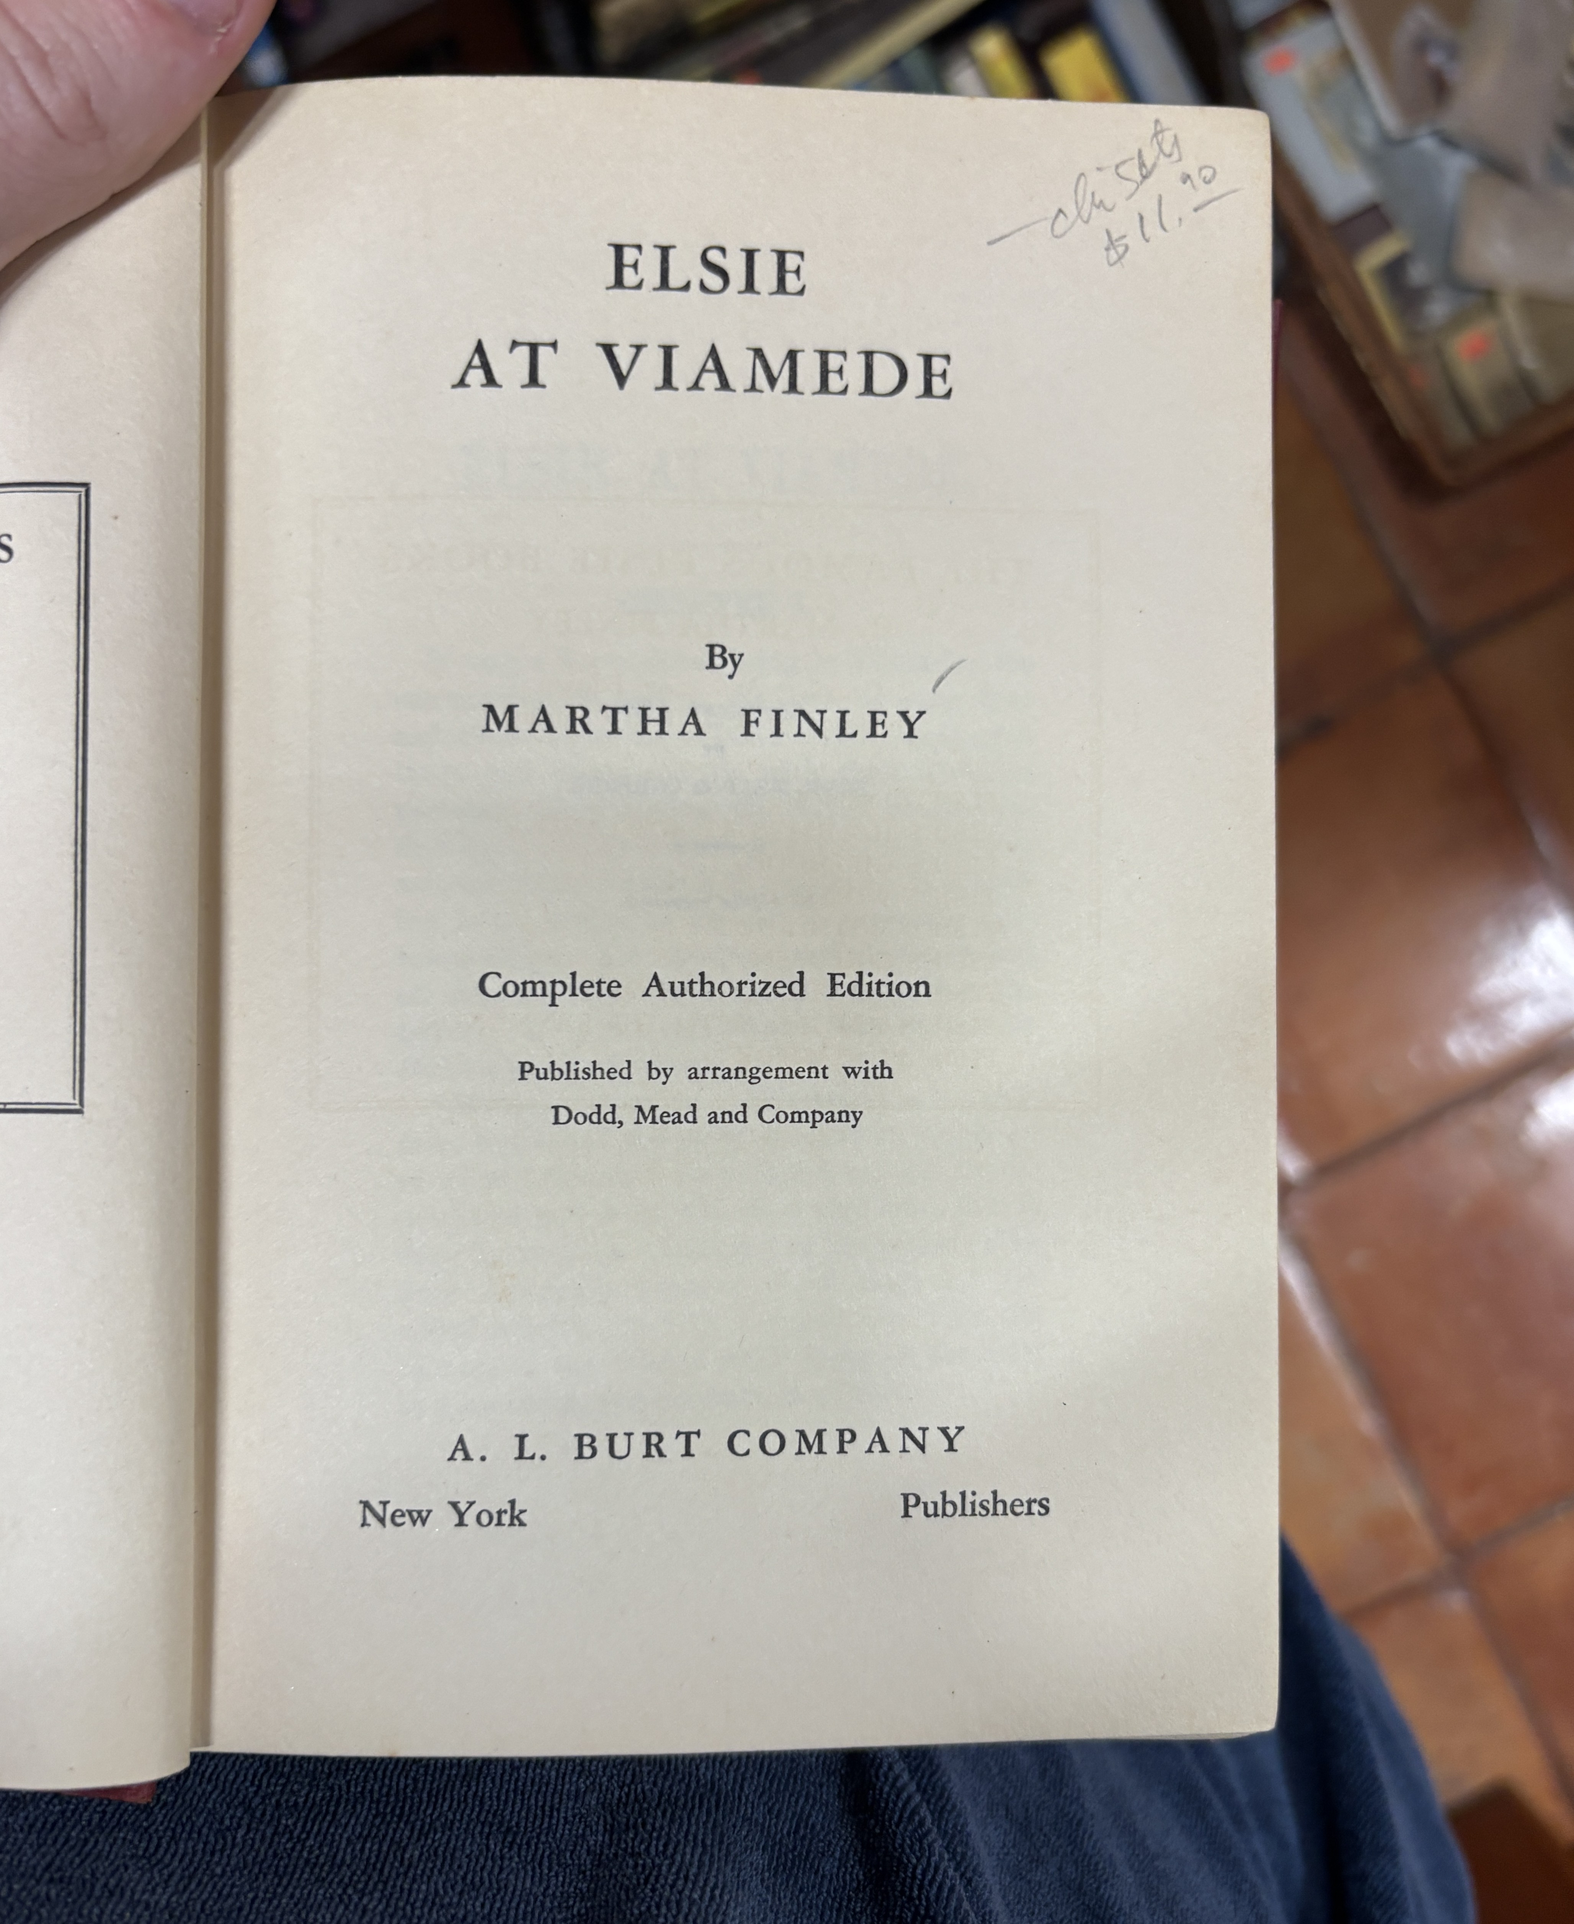
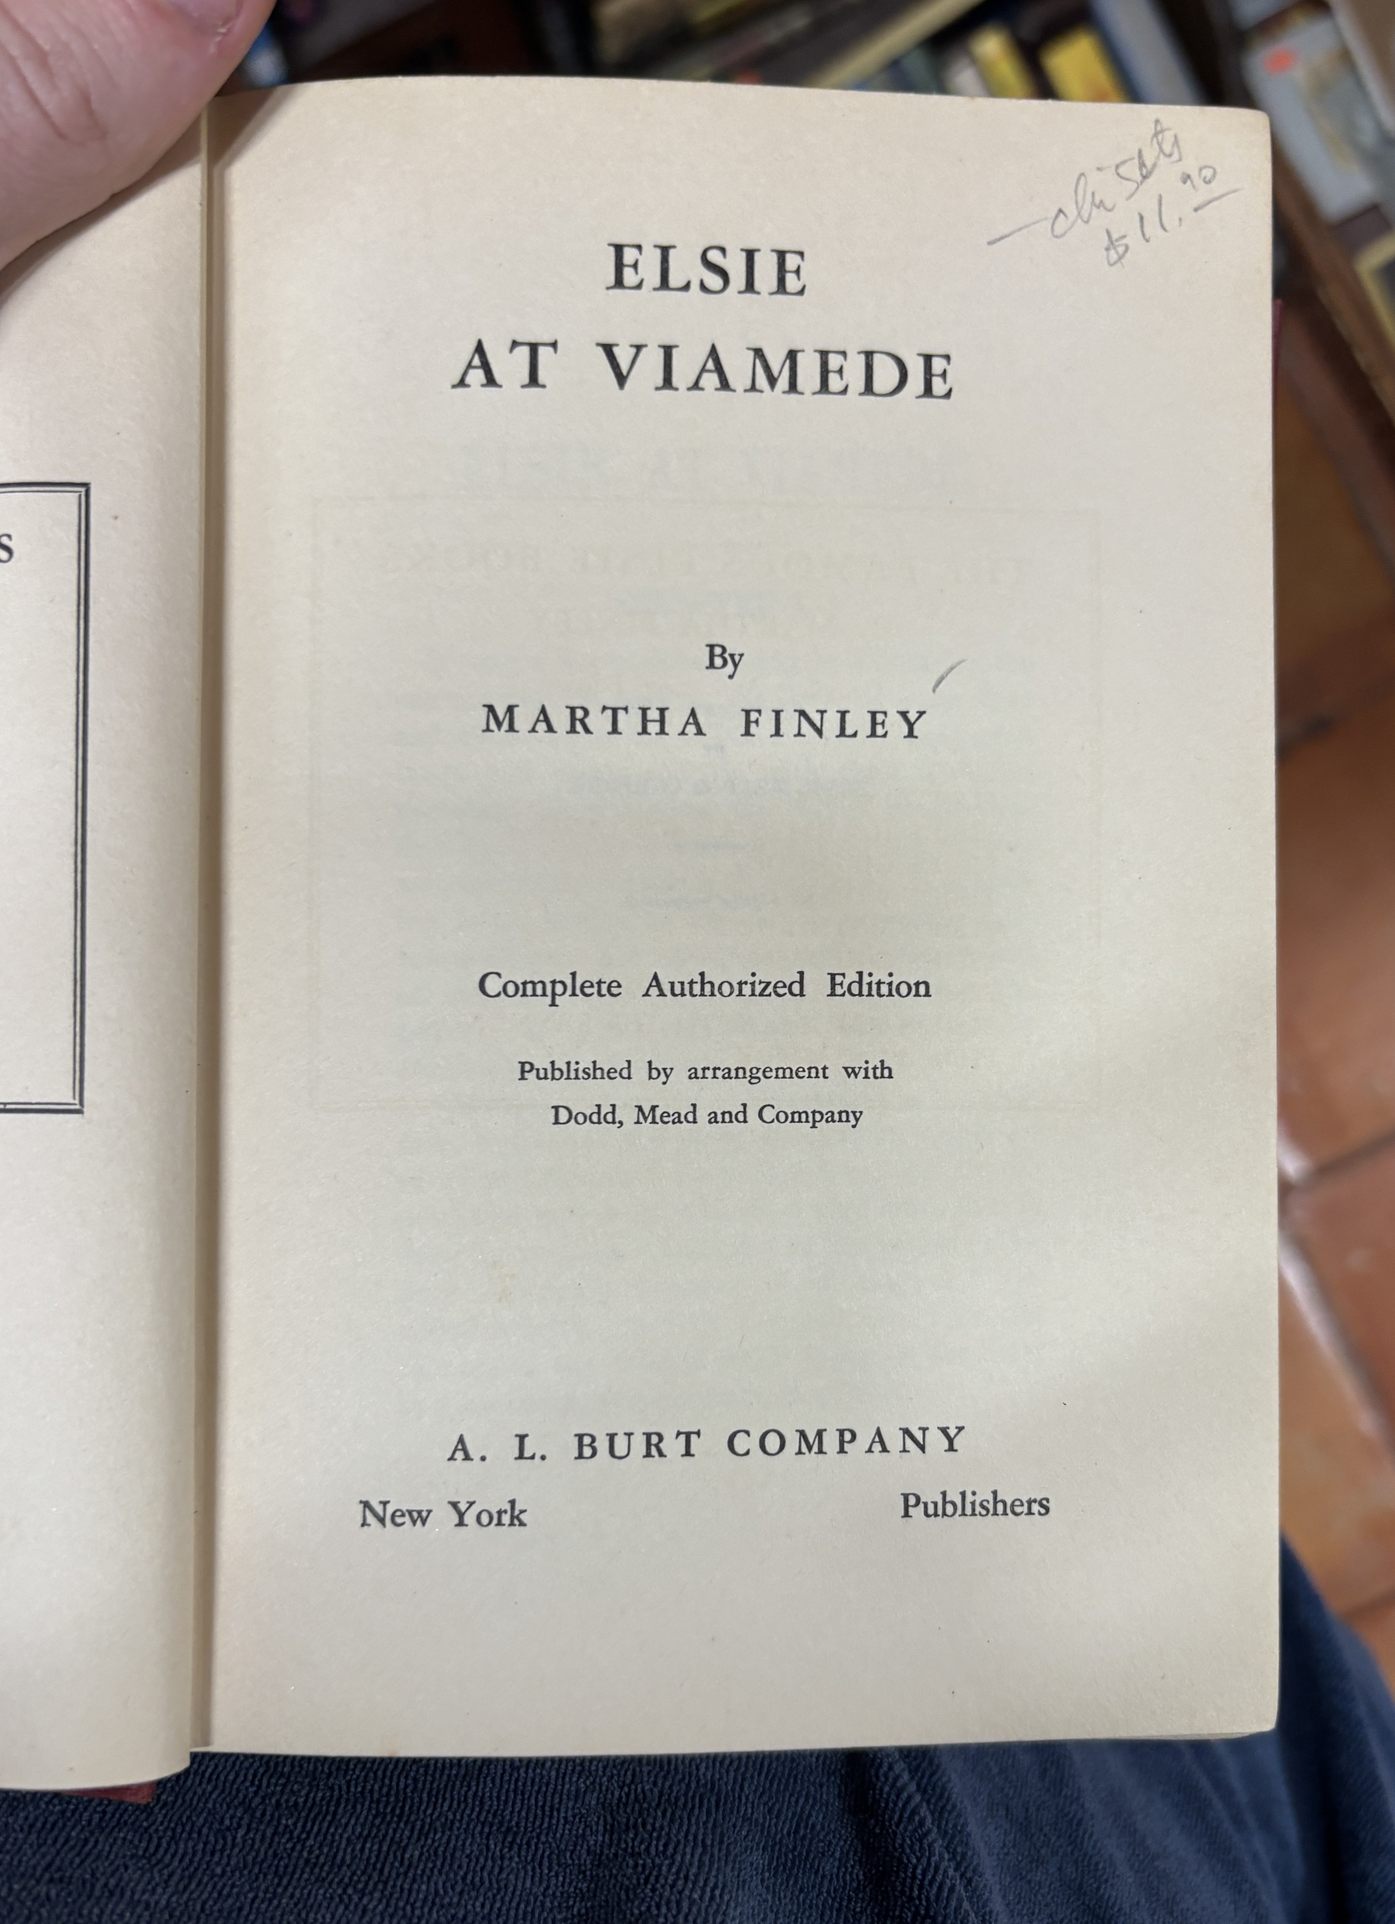
Add run OCR toggle and improve image preprocessing
Introduces a 'run OCR' checkbox to the UI and API, allowing users to skip OCR if desired. Enhances image preprocessing for book covers by adding brightness adjustment and tuning contrast, CLAHE, and sharpening parameters. Updates image encoding logic for vision models to use processed inputs and adjusts downscaling based on image type. Adds new images and updates existing ones in the books directory.

diff --git a/pipeline_demo/i2j_ui/static/script.js b/pipeline_demo/i2j_ui/static/script.js
@@ -39,6 +39,7 @@ const queueList = document.getElementById('queue-list');
 const modelSel = document.getElementById('model');
 const backendSel = document.getElementById('backend');
 const ocrSel = document.getElementById('ocr');
+const runOcrChk = document.getElementById('run-ocr');
 const preprocChk = document.getElementById('preproc');
 const examplesSel = document.getElementById('examples');
 const btnRunExample = document.getElementById('run-example');
@@ -487,6 +488,7 @@ async function processSingle(blob, filename = 'capture.jpg') {
   fd.append('image', blob, filename);
   fd.append('model', modelSel.value || 'gemma3:4b');
   fd.append('ocr_engine', ocrSel.value || 'easyocr');
+  fd.append('run_ocr', runOcrChk && runOcrChk.checked ? 'true' : 'false');
   fd.append('use_preprocessing', preprocChk.checked ? 'true' : 'false');
   fd.append('edge_crop', String(Number(edgeCropRange.value || 0)));
   fd.append('crop_ocr', autoCropChk.checked ? 'true' : 'false');
@@ -550,6 +552,7 @@ async function processBatch(blobs) {
   }
   fd.append('model', modelSel.value || 'gemma3:4b');
   fd.append('ocr_engine', ocrSel.value || 'easyocr');
+  fd.append('run_ocr', runOcrChk && runOcrChk.checked ? 'true' : 'false');
   fd.append('use_preprocessing', preprocChk.checked ? 'true' : 'false');
   fd.append('edge_crop', String(Number(edgeCropRange.value || 0)));
   fd.append('crop_ocr', autoCropChk.checked ? 'true' : 'false');
@@ -670,7 +673,7 @@ btnRunExample.addEventListener('click', async () => {
     if (count > 0) initTraceTable(count, []);
   } catch {}
 
-  const resp = await fetch('/api/process_example', { method: 'POST', headers: { 'Content-Type': 'application/json' }, body: JSON.stringify({ book_id: id, model: modelSel.value || 'gemma3:4b', ocr_engine: ocrSel.value || 'easyocr', use_preprocessing: preprocChk.checked, edge_crop: Number(edgeCropRange.value || 0), crop_ocr: autoCropChk.checked, llm_backend: backendSel.value || 'ollama' }) });
+  const resp = await fetch('/api/process_example', { method: 'POST', headers: { 'Content-Type': 'application/json' }, body: JSON.stringify({ book_id: id, model: modelSel.value || 'gemma3:4b', ocr_engine: ocrSel.value || 'easyocr', run_ocr: runOcrChk && runOcrChk.checked, use_preprocessing: preprocChk.checked, edge_crop: Number(edgeCropRange.value || 0), crop_ocr: autoCropChk.checked, llm_backend: backendSel.value || 'ollama' }) });
   const data = await resp.json();
   if (!resp.ok) {
     statusEl.textContent = 'Error';

diff --git a/pipeline_demo/i2j_ui/static/index.html b/pipeline_demo/i2j_ui/static/index.html
@@ -37,6 +37,7 @@
                             <option value="easyocr" selected>easyocr</option>
                             <option value="tesseract">tesseract</option>
                         </select>
+                        <label><input type="checkbox" id="run-ocr" checked> run OCR</label>
                         <label><input type="checkbox" id="preproc" checked> preprocessing</label>
                     </div>
                     <div class="row">

diff --git a/pipeline_demo/extractor/enhanced_extractor.py b/pipeline_demo/extractor/enhanced_extractor.py
@@ -314,7 +314,7 @@ class EnhancedBookMetadataExtractor:
             with open(image_path, "rb") as f:
                 return base64.b64encode(f.read()).decode("utf-8")
     
-    def extract_text_with_ocr(self, image_path: str, trace_image: Optional[Dict[str, Any]] = None, trace_global: Optional[Dict[str, Any]] = None, *, step_log: Optional[List[Dict[str, Any]]] = None) -> str:
+    def extract_text_with_ocr(self, image_path: str, trace_image: Optional[Dict[str, Any]] = None, trace_global: Optional[Dict[str, Any]] = None, *, step_log: Optional[List[Dict[str, Any]]] = None, image_index: Optional[int] = None) -> str:
         """Extract text from an image using OCR and return text only."""
         print(f"    🔍 Starting OCR processing for: {os.path.basename(image_path)}")
         
@@ -392,14 +392,15 @@ class EnhancedBookMetadataExtractor:
         try:
             try:
                 img = Image.open(crop_image_path)
-                # Target a reasonable max dimension for OCR speed
-                max_dim = 1600
+                # Use a higher limit for non-cover pages to preserve text fidelity
+                # Cover (index 0) can be downscaled more aggressively; others keep larger size
+                max_dim = 1600 if (image_index is None or image_index == 0) else 3200
                 if max(img.size) > max_dim:
                     img = img.convert("RGB")
                     img.thumbnail((max_dim, max_dim))
                     from io import BytesIO
                     buf = BytesIO()
-                    img.save(buf, format="JPEG", quality=90)
+                    img.save(buf, format="JPEG", quality=(90 if (image_index is None or image_index == 0) else 95))
                     data = buf.getvalue()
                     temp_dir = self._get_temp_dir()
                     base_name = os.path.splitext(os.path.basename(crop_image_path))[0]
@@ -407,7 +408,7 @@ class EnhancedBookMetadataExtractor:
                     with open(ocr_input_path, "wb") as f:
                         f.write(data)
                     temp_files_to_cleanup.append(ocr_input_path)
-                    print(f"    🗜  Downscaled image for OCR: {os.path.basename(ocr_input_path)}")
+                    print(f"    🗜  Downscaled image for OCR ({max_dim}px): {os.path.basename(ocr_input_path)}")
             except Exception as _:
                 ocr_input_path = crop_image_path
         except Exception:
@@ -587,7 +588,7 @@ class EnhancedBookMetadataExtractor:
                     self._emit_trace(trace)
                 trace_img_dict = trace["images"][idx] if capture_trace else None
                 step_log = trace.get("steps") if capture_trace else None
-                ocr_text = self.extract_text_with_ocr(image_paths[idx], trace_image=trace_img_dict, trace_global=trace if capture_trace else None, step_log=step_log)
+                ocr_text = self.extract_text_with_ocr(image_paths[idx], trace_image=trace_img_dict, trace_global=trace if capture_trace else None, step_log=step_log, image_index=idx)
                 if ocr_text.strip():
                     text_len = len(ocr_text)
                     if text_len > self.max_ocr_chars_per_image:
@@ -622,14 +623,62 @@ class EnhancedBookMetadataExtractor:
             trace["steps"].append({"step": "build_prompt", "info": {"chars": len(enhanced_prompt)}})
             self._emit_trace(trace)
         # (trace already updated above)
-        # Encode all images for Ollama
-        print(f"\n📸 Encoding {len(image_paths)} images for vision model...")
+        # Build best-available processed inputs for VLM (preprocess → edge-crop → auto-crop)
+        model_input_paths: List[str] = []
+        model_temp_files_to_cleanup: List[str] = []
+        for idx, p in enumerate(image_paths):
+            current_path = p
+            try:
+                # Preprocessing (if available and enabled)
+                if self.use_preprocessing and PREPROCESSING_AVAILABLE:
+                    try:
+                        temp_dir = self._get_temp_dir()
+                        base_name = os.path.splitext(os.path.basename(p))[0]
+                        pre_path = os.path.join(temp_dir, f"{base_name}_pre_model.png")
+                        _, pre_path, _steps = preprocess_for_book_cover(p, pre_path)
+                        model_temp_files_to_cleanup.append(pre_path)
+                        current_path = pre_path
+                    except Exception:
+                        current_path = p
+                # Edge crop (simple centered crop)
+                if self.edge_crop_percent > 0.0:
+                    try:
+                        central = self._central_edge_crop(current_path, self.edge_crop_percent)
+                        if central and os.path.exists(central):
+                            model_temp_files_to_cleanup.append(central)
+                            current_path = central
+                    except Exception:
+                        pass
+                # Auto text crop (heuristic)
+                if self.crop_for_ocr:
+                    try:
+                        cropped = self._auto_crop_text_region(current_path, self.crop_margin)
+                        if cropped and os.path.exists(cropped):
+                            model_temp_files_to_cleanup.append(cropped)
+                            current_path = cropped
+                    except Exception:
+                        pass
+            finally:
+                model_input_paths.append(current_path)
+
+        # Encode all images for Ollama using processed inputs
+        print(f"\n📸 Encoding {len(model_input_paths)} images for vision model...")
         images = []
-        for i, img_path in enumerate(image_paths, 1):
-            print(f"   📷 Encoding image {i}: {os.path.basename(img_path)}")
-            encoded = self._encode_image_for_model(img_path)
+        for i, (orig_path, model_path) in enumerate(zip(image_paths, model_input_paths), 1):
+            print(f"   📷 Encoding image {i}: {os.path.basename(orig_path)} → {os.path.basename(model_path)}")
+            idx0 = i - 1
+            max_dim_model = 1600 if idx0 == 0 else 2400
+            jpeg_q = 85 if idx0 == 0 else 90
+            encoded = self._encode_image_for_model(model_path, max_dim=max_dim_model, jpeg_quality=jpeg_q)
             images.append(encoded)
             print(f"      ✓ Encoded ({len(encoded)} characters)")
+        # Cleanup temporary processed inputs
+        try:
+            for tmp in model_temp_files_to_cleanup:
+                if tmp and os.path.exists(tmp):
+                    os.remove(tmp)
+        except Exception:
+            pass
         if capture_trace:
             trace["steps"].append({"step": "encode_images", "info": {"count": len(images)}})
             self._emit_trace(trace)

diff --git a/pipeline_demo/i2j_ui/app/main.py b/pipeline_demo/i2j_ui/app/main.py
@@ -411,7 +411,7 @@ async def job_result(id: str):
             return JSONResponse(status_code=202, content={"status": status})
         return {"id": id, "status": status, "metadata": job.get("metadata"), "files": job.get("files", [])}
 
-def _run_extractor_job(job_id: str, image_paths: List[str], *, model: str, ocr_engine: str, use_preprocessing: bool, edge_crop: float, crop_ocr: bool, llm_backend: str = "ollama") -> None:
+def _run_extractor_job(job_id: str, image_paths: List[str], *, model: str, ocr_engine: str, use_preprocessing: bool, edge_crop: float, crop_ocr: bool, llm_backend: str = "ollama", run_ocr: bool = True) -> None:
 	_JOB_SEM.acquire()
 	try:
 		with _JOBS_LOCK:
@@ -428,7 +428,7 @@ def _run_extractor_job(job_id: str, image_paths: List[str], *, model: str, ocr_e
 		sys.stderr = _JobLogTee(_orig_err, job_id)
 		try:
 			extractor = _build_extractor(model=model, ocr_engine=ocr_engine, use_preprocessing=use_preprocessing, edge_crop=edge_crop, auto_crop=crop_ocr, llm_backend=llm_backend)
-			ocr_indices = _compute_default_ocr_indices(len(image_paths))
+			ocr_indices = _compute_default_ocr_indices(len(image_paths)) if bool(run_ocr) else []
 			metadata = extractor.extract_metadata_from_images(image_paths, ocr_image_indices=ocr_indices, capture_trace=True, trace_sink=trace_sink)
 		finally:
 			sys.stdout = _orig_out
@@ -614,6 +614,7 @@ async def process_image(
 	image: UploadFile = File(...),
 	model: str = Form("gemma3:4b"),
 	ocr_engine: str = Form("easyocr"),
+	run_ocr: bool = Form(True),
 	use_preprocessing: bool = Form(True),
 	edge_crop: float = Form(0.0),
 	crop_ocr: bool = Form(True),
@@ -645,7 +646,7 @@ async def process_image(
 		return JSONResponse(status_code=400, content={"error": bad})
 	# Start background job and return immediately
 	t = threading.Thread(target=_run_extractor_job, args=(item_id, [saved_path]), kwargs={
-		'model': model, 'ocr_engine': ocr_engine, 'use_preprocessing': use_preprocessing, 'edge_crop': float(edge_crop), 'crop_ocr': bool(crop_ocr), 'llm_backend': str(llm_backend or 'ollama')
+		'model': model, 'ocr_engine': ocr_engine, 'use_preprocessing': use_preprocessing, 'edge_crop': float(edge_crop), 'crop_ocr': bool(crop_ocr), 'llm_backend': str(llm_backend or 'ollama'), 'run_ocr': bool(run_ocr)
 	}, daemon=True)
 	t.start()
 	with _JOBS_LOCK:
@@ -660,6 +661,7 @@ async def process_images(
 	images: List[UploadFile] = File(...),
 	model: str = Form("gemma3:4b"),
 	ocr_engine: str = Form("easyocr"),
+	run_ocr: bool = Form(True),
 	use_preprocessing: bool = Form(True),
 	edge_crop: float = Form(0.0),
 	crop_ocr: bool = Form(True),
@@ -695,7 +697,7 @@ async def process_images(
 		return JSONResponse(status_code=400, content={"error": bad})
 	# Start background job and return immediately
 	t = threading.Thread(target=_run_extractor_job, args=(item_id, saved_paths), kwargs={
-		'model': model, 'ocr_engine': ocr_engine, 'use_preprocessing': use_preprocessing, 'edge_crop': float(edge_crop), 'crop_ocr': bool(crop_ocr), 'llm_backend': str(llm_backend or 'ollama')
+		'model': model, 'ocr_engine': ocr_engine, 'use_preprocessing': use_preprocessing, 'edge_crop': float(edge_crop), 'crop_ocr': bool(crop_ocr), 'llm_backend': str(llm_backend or 'ollama'), 'run_ocr': bool(run_ocr)
 	}, daemon=True)
 	t.start()
 	with _JOBS_LOCK:
@@ -731,6 +733,7 @@ class ExamplePayload(BaseModel):
 	book_id: str
 	model: Optional[str] = "gemma3:4b"
 	ocr_engine: Optional[str] = "easyocr"
+	run_ocr: Optional[bool] = True
 	use_preprocessing: Optional[bool] = True
 	edge_crop: Optional[float] = 0.0
 	crop_ocr: Optional[bool] = True
@@ -775,7 +778,7 @@ async def process_example(payload: ExamplePayload):
 		raise HTTPException(status_code=400, detail=bad)
 	
 	t = threading.Thread(target=_run_extractor_job, args=(job_id, image_paths), kwargs={
-		'model': payload.model or 'gemma3:4b', 'ocr_engine': payload.ocr_engine or 'easyocr', 'use_preprocessing': bool(payload.use_preprocessing), 'edge_crop': float(payload.edge_crop or 0.0), 'crop_ocr': bool(payload.crop_ocr or False), 'llm_backend': str(payload.llm_backend or 'ollama')
+		'model': payload.model or 'gemma3:4b', 'ocr_engine': payload.ocr_engine or 'easyocr', 'use_preprocessing': bool(payload.use_preprocessing), 'edge_crop': float(payload.edge_crop or 0.0), 'crop_ocr': bool(payload.crop_ocr or False), 'llm_backend': str(payload.llm_backend or 'ollama'), 'run_ocr': bool(payload.run_ocr if payload.run_ocr is not None else True)
 	}, daemon=True)
 	t.start()
 	with _JOBS_LOCK:
@@ -989,5 +992,3 @@ async def reject(payload: RejectPayload):
 	with open(log_path, "w", encoding="utf-8") as f:
 		f.write(payload.reason or "rejected")
 	return {"status": "rejected", "path": log_path}
-
-

diff --git a/pipeline_demo/ocr_testing/preprocessing/image_preprocessor.py b/pipeline_demo/ocr_testing/preprocessing/image_preprocessor.py
@@ -82,6 +82,22 @@ class ImagePreprocessor:
             self.preprocessed_image = np.array(enhanced_img)
         self.steps_applied.append(f"increase_contrast(factor={factor})")
         return self
+
+    def increase_brightness(self, factor=1.2):
+        if self.preprocessed_image is None:
+            raise ValueError("No image loaded")
+        if len(self.preprocessed_image.shape) == 3:
+            pil_img = Image.fromarray(cv2.cvtColor(self.preprocessed_image, cv2.COLOR_BGR2RGB))
+        else:
+            pil_img = Image.fromarray(self.preprocessed_image)
+        enhancer = ImageEnhance.Brightness(pil_img)
+        bright_img = enhancer.enhance(factor)
+        if len(self.preprocessed_image.shape) == 3:
+            self.preprocessed_image = cv2.cvtColor(np.array(bright_img), cv2.COLOR_RGB2BGR)
+        else:
+            self.preprocessed_image = np.array(bright_img)
+        self.steps_applied.append(f"increase_brightness(factor={factor})")
+        return self
     
     def sharpen(self, amount=0.3):
         if self.preprocessed_image is None:
@@ -134,9 +150,10 @@ def preprocess_for_book_cover(image_path, output_path=None):
     preprocessor.to_grayscale()
     preprocessor.resize(scale_factor=1.5)
     preprocessor.denoise(strength=5)
-    preprocessor.increase_contrast(1.3)
-    preprocessor.clahe(clip_limit=2.0)
-    preprocessor.sharpen(amount=0.2)
+    preprocessor.increase_brightness(1.2)
+    preprocessor.increase_contrast(1.8)
+    preprocessor.clahe(clip_limit=2.5)
+    preprocessor.sharpen(amount=0.25)
     if output_path:
         preprocessor.save_image(output_path)
     return (preprocessor.get_image(), output_path, preprocessor.get_steps_applied())
